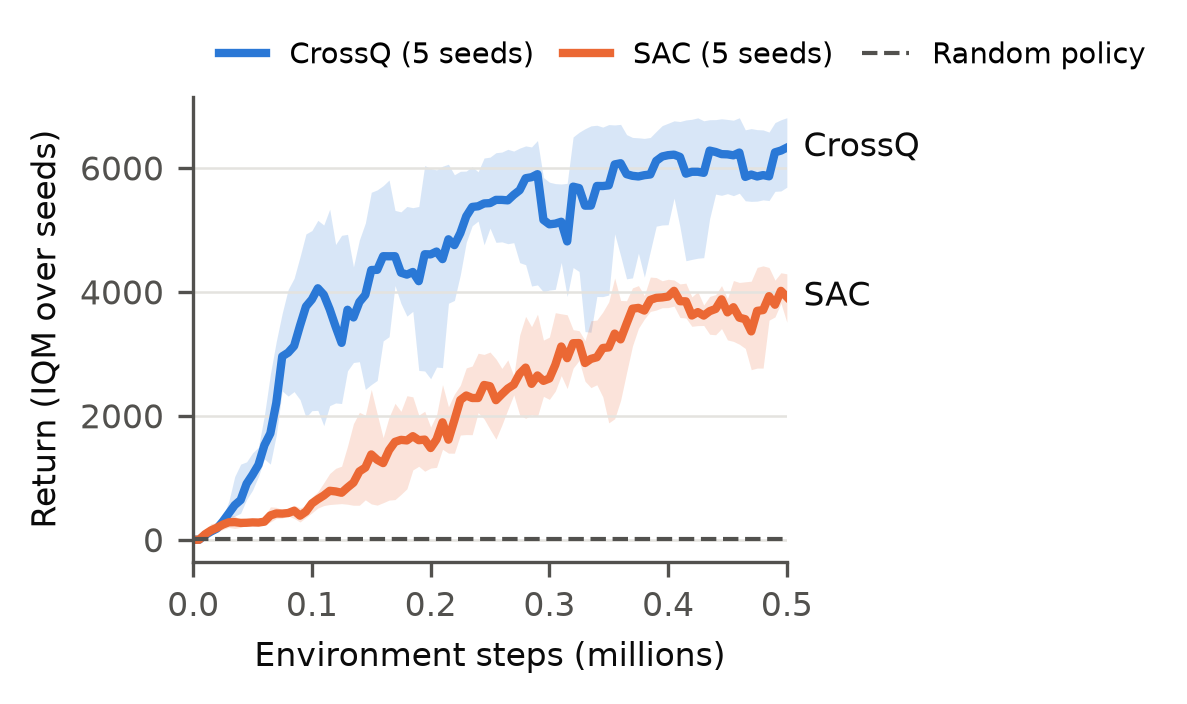
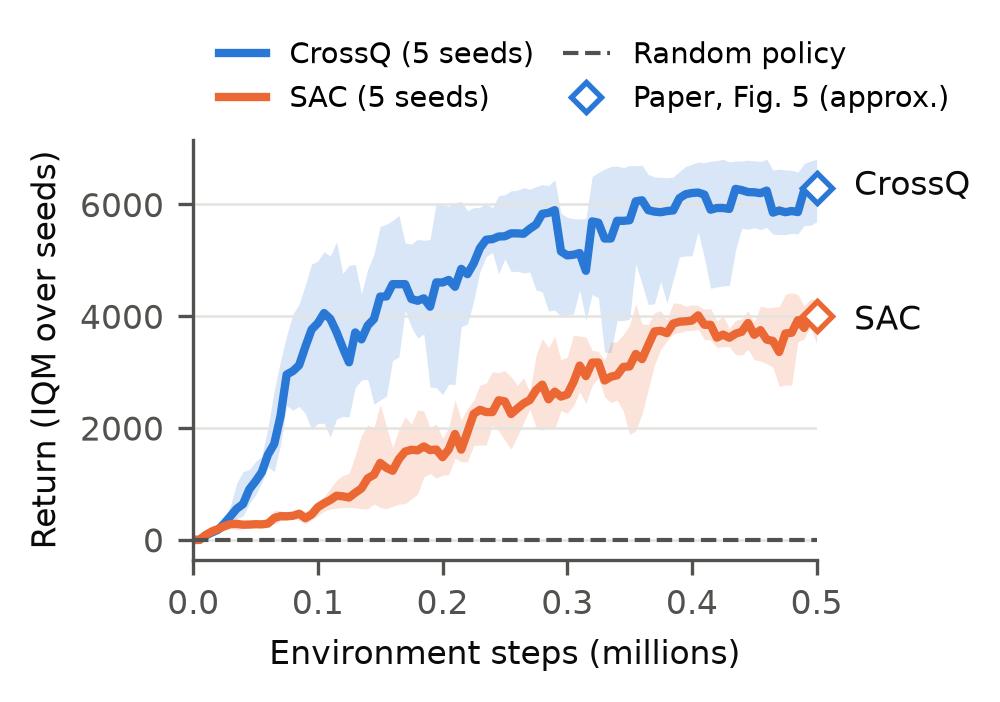
Reproduction figure: mark the paper's approximate values at 500k steps
Claude-Session: https://claude.ai/code/session_01UX2nyYeHRxnFgReKCyXjJ8

diff --git a/scripts/analyze_repro.py b/scripts/analyze_repro.py
@@ -123,15 +123,20 @@ def main():
         ax.fill_between(x, np.percentile(smooth, 15, axis=0), np.percentile(smooth, 85, axis=0),
                         color=color, alpha=0.18, linewidth=0)
         ax.plot(x, iqm(smooth, axis=0), color=color, linewidth=2, label=f"{label} ({len(seeds)} seeds)")
-        ax.annotate(label, (x[-1], iqm(smooth, axis=0)[-1]), xytext=(4, 0), textcoords="offset points",
+        ax.annotate(label, (x[-1], iqm(smooth, axis=0)[-1]), xytext=(9, 0), textcoords="offset points",
                     va="center", color="#0b0b0b", fontsize=8)
     ax.axhline(rnd_mean, color="#52514e", linestyle="--", linewidth=1, label="Random policy")
+    # approximate values read from the paper's Fig. 5 at 0.5M steps (hollow diamonds)
+    for (a, label, color), v in zip(ALGOS, (6300, 4000) if ALGOS[0][0] == "crossq" else (4000, 6300)):
+        ax.plot([0.5], [v], marker="D", markersize=5, markerfacecolor="white", markeredgecolor=color,
+                markeredgewidth=1.3, linestyle="none", clip_on=False, zorder=5,
+                label="Paper, Fig. 5 (approx.)" if a == ALGOS[0][0] else None)
     ax.set_xlabel("Environment steps (millions)")
     ax.set_ylabel("Return (IQM over seeds)")
     ax.set_xlim(0, 0.5)
     ax.grid(axis="y", color="#e4e3df", linewidth=0.6)
     ax.spines[["top", "right"]].set_visible(False)
-    ax.legend(frameon=False, loc="lower left", bbox_to_anchor=(0, 1.0), ncol=3, fontsize=7, handlelength=1.6, columnspacing=1.0)
+    ax.legend(frameon=False, loc="lower left", bbox_to_anchor=(0, 1.0), ncol=2, fontsize=7, handlelength=1.6, columnspacing=1.0)
     fig.tight_layout()
     for ext in ("pdf", "png"):
         fig.savefig(os.path.join(FIG_DIR, f"repro_walker2d.{ext}"), dpi=300, bbox_inches="tight")
